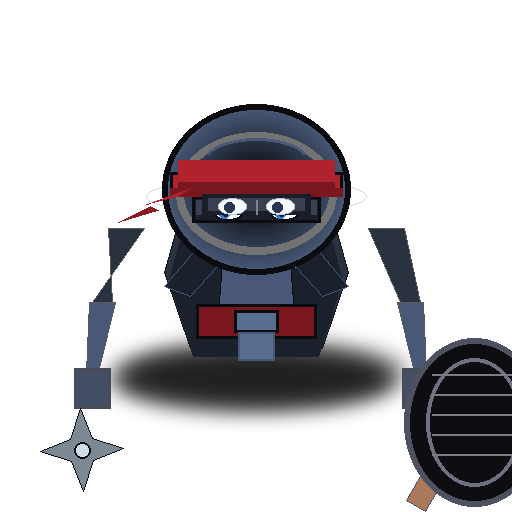
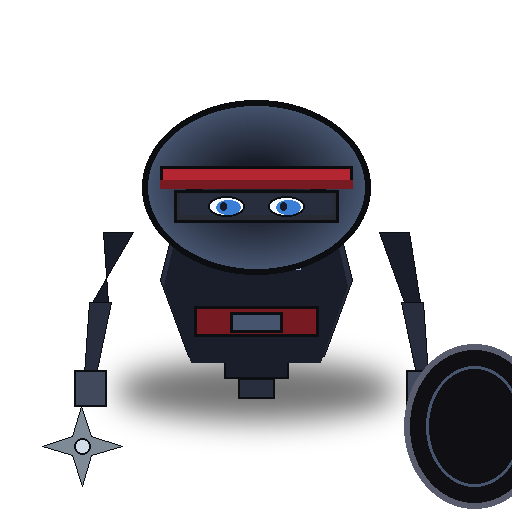
Auto-save #365: Python 코드 작업 - 2025-11-21 23:29:08

Changed region(s): [[0.0625, 0.1875, 1.0, 1.0], [0.7812, 0.875, 0.8125, 0.9062]]

diff --git a/create_stage8_boss.py b/create_stage8_boss.py
@@ -1,0 +1,201 @@
+#!/usr/bin/env python3
+"""Generate a top-down chibi ninja boss (탁닌자): full mask, sharp eyes, slim arms."""
+
+from math import cos, sin, pi
+from typing import Iterable, List, Tuple
+
+from PIL import Image, ImageDraw, ImageFilter
+
+CANVAS = 512
+CENTER = CANVAS // 2
+
+# Palette
+INK = (12, 14, 18, 255)
+SUIT_DARK = (26, 30, 42, 255)
+SUIT_MID = (40, 46, 62, 255)
+SUIT_LIGHT = (70, 84, 110, 255)
+GLOSS = (118, 136, 168, 180)
+MASK_SHADOW = (18, 20, 30, 230)
+BAND = (180, 38, 50, 255)
+BAND_SHADOW = (120, 26, 34, 255)
+EYE_WHITE = (246, 248, 255, 255)
+EYE_IRIS = (58, 126, 214, 255)
+EYE_PUPIL = (22, 28, 42, 255)
+GLOVE = (64, 74, 92, 255)
+PADDLE_FACE = (16, 16, 20, 255)
+PADDLE_EDGE = (88, 92, 108, 255)
+PADDLE_HANDLE = (168, 120, 90, 255)
+SHURIKEN_CORE = (210, 220, 232, 255)
+SHURIKEN_EDGE = (126, 138, 150, 255)
+SHADOW_COLOR = (0, 0, 0, 140)
+
+
+def soft_shadow(canvas: Image.Image, bbox: Tuple[int, int, int, int], blur: int = 12) -> None:
+    shadow = Image.new("RGBA", canvas.size, (0, 0, 0, 0))
+    ImageDraw.Draw(shadow).ellipse(bbox, fill=SHADOW_COLOR)
+    canvas.alpha_composite(shadow.filter(ImageFilter.GaussianBlur(radius=blur)))
+
+
+def ring_ellipse(draw: ImageDraw.ImageDraw, bbox: Tuple[int, int, int, int], inner: Iterable[int], outer: Iterable[int], steps: int = 32) -> None:
+    x1, y1, x2, y2 = bbox
+    for i in range(steps):
+        t = i / (steps - 1)
+        r = int(inner[0] * (1 - t) + outer[0] * t)
+        g = int(inner[1] * (1 - t) + outer[1] * t)
+        b = int(inner[2] * (1 - t) + outer[2] * t)
+        a = int(inner[3] * (1 - t) + outer[3] * t)
+        mx = int((x2 - x1) * 0.35 * t)
+        my = int((y2 - y1) * 0.35 * t)
+        draw.ellipse((x1 + mx, y1 + my, x2 - mx, y2 - my), fill=(r, g, b, a))
+
+
+def star_points(cx: float, cy: float, outer: float, inner: float, spikes: int, rotation_deg: float) -> List[Tuple[float, float]]:
+    rot = rotation_deg * pi / 180
+    pts: List[Tuple[float, float]] = []
+    for i in range(spikes * 2):
+        ang = rot + i * pi / spikes
+        r = outer if i % 2 == 0 else inner
+        pts.append((cx + cos(ang) * r, cy + sin(ang) * r))
+    return pts
+
+
+def draw_head(draw: ImageDraw.ImageDraw) -> None:
+    hood_bbox = (CENTER - 110, 104, CENTER + 110, 268)
+    ring_ellipse(draw, hood_bbox, SUIT_LIGHT + (255,), SUIT_DARK + (255,), steps=40)
+    draw.ellipse((hood_bbox[0] - 4, hood_bbox[1] - 4, hood_bbox[2] + 4, hood_bbox[3] + 6), outline=INK, width=6)
+
+    # Face opening fully masked; only narrow eye slit
+    slit_outer = (CENTER - 82, 190, CENTER + 82, 222)
+    draw.rectangle(slit_outer, fill=MASK_SHADOW, outline=INK, width=3)
+    slit_inner = (CENTER - 76, 194, CENTER + 76, 214)
+    draw.rectangle(slit_inner, fill=SUIT_MID)
+
+    for offset in (-30, 30):
+        eye = (CENTER + offset - 18, 196, CENTER + offset + 18, 216)
+        draw.ellipse(eye, fill=EYE_WHITE, outline=INK, width=2)
+        draw.ellipse((eye[0] + 8, eye[1] + 4, eye[2] - 4, eye[3] - 2), fill=EYE_IRIS)
+        draw.ellipse((eye[0] + 12, eye[1] + 6, eye[0] + 18, eye[1] + 14), fill=EYE_PUPIL)
+
+    # Brow tension
+    draw.arc((CENTER - 74, 182, CENTER + 74, 204), 200, 340, fill=INK, width=5)
+
+    # Head band on back of hood
+    draw.rectangle((CENTER - 96, 166, CENTER + 96, 182), fill=BAND, outline=INK, width=3)
+    draw.rectangle((CENTER - 96, 180, CENTER + 96, 188), fill=BAND_SHADOW)
+
+
+def draw_torso(draw: ImageDraw.ImageDraw) -> None:
+    torso = [
+        (CENTER - 76, 198),
+        (CENTER + 76, 198),
+        (CENTER + 96, 280),
+        (CENTER + 68, 356),
+        (CENTER - 68, 356),
+        (CENTER - 96, 280),
+    ]
+    draw.polygon(torso, fill=SUIT_MID, outline=INK)
+    inner = [(x * 0.95 + CENTER * 0.05, y + 6) for x, y in torso]
+    draw.polygon(inner, fill=SUIT_DARK)
+    # folds
+    for i, xoff in enumerate((-26, 0, 26)):
+        y = 232 + i * 18
+        draw.line([(CENTER - 18 + xoff, y), (CENTER + 18 + xoff, y)], fill=GLOSS, width=2)
+    # belt and buckle
+    draw.rectangle((CENTER - 62, 306, CENTER + 62, 336), fill=BAND_SHADOW, outline=INK, width=3)
+    draw.rectangle((CENTER - 26, 312, CENTER + 26, 332), fill=SUIT_LIGHT, outline=INK, width=3)
+
+
+def draw_arms(draw: ImageDraw.ImageDraw) -> Tuple[Tuple[int, int], Tuple[int, int]]:
+    left_shoulder = (CENTER - 138, 232)
+    right_shoulder = (CENTER + 138, 232)
+    upper_len = 70
+    fore_len = 72
+    shoulder_w = 30
+    fore_w = 22
+
+    def limb(shoulder: Tuple[int, int], side: int) -> Tuple[int, int]:
+        sx, sy = shoulder
+        elbow = (sx + side * 18, sy + upper_len)
+        wrist = (elbow[0] + side * 10, elbow[1] + fore_len)
+        draw.polygon(
+            [
+                (sx - shoulder_w // 2, sy),
+                (sx + shoulder_w // 2, sy),
+                (elbow[0] + side * 8, elbow[1]),
+                (elbow[0] - side * 8, elbow[1]),
+            ],
+            fill=SUIT_DARK,
+            outline=INK,
+        )
+        draw.polygon(
+            [
+                (elbow[0] - side * (fore_w // 2), elbow[1]),
+                (elbow[0] + side * (fore_w // 2), elbow[1]),
+                (wrist[0] + side * 6, wrist[1]),
+                (wrist[0] - side * 6, wrist[1]),
+            ],
+            fill=SUIT_MID,
+            outline=INK,
+        )
+        draw.rectangle((wrist[0] - 16, wrist[1] - 4, wrist[0] + 16, wrist[1] + 32), fill=GLOVE, outline=INK, width=2)
+        return wrist
+
+    left_w = limb(left_shoulder, -1)
+    right_w = limb(right_shoulder, 1)
+    return left_w, right_w
+
+
+def draw_weapons(draw: ImageDraw.ImageDraw, left_hand: Tuple[int, int], right_hand: Tuple[int, int]) -> None:
+    # Shuriken in left
+    cx, cy = left_hand[0] - 8, left_hand[1] + 72
+    pts = star_points(cx, cy, outer=40, inner=14, spikes=4, rotation_deg=0)
+    draw.polygon(pts, fill=SHURIKEN_EDGE, outline=INK)
+    draw.ellipse((cx - 8, cy - 8, cx + 8, cy + 8), fill=SHURIKEN_CORE, outline=INK, width=2)
+
+    # Black paddle in right
+    handle_poly = [
+        (right_hand[0] + 6, right_hand[1] + 16),
+        (right_hand[0] + 20, right_hand[1] + 102),
+        (right_hand[0] + 6, right_hand[1] + 112),
+        (right_hand[0] - 10, right_hand[1] + 28),
+    ]
+    draw.polygon(handle_poly, fill=PADDLE_HANDLE, outline=PADDLE_EDGE)
+    blade_cx, blade_cy = right_hand[0] + 52, right_hand[1] + 52
+    draw.ellipse(
+        (blade_cx - 70, blade_cy - 82, blade_cx + 70, blade_cy + 82),
+        fill=PADDLE_FACE,
+        outline=PADDLE_EDGE,
+        width=6,
+    )
+    draw.ellipse(
+        (blade_cx - 48, blade_cy - 60, blade_cx + 48, blade_cy + 60),
+        outline=SUIT_LIGHT,
+        width=3,
+    )
+
+
+def draw_leg_stub(draw: ImageDraw.ImageDraw) -> None:
+    # Subtle leg hint at bottom to break roundness
+    draw.rectangle((CENTER - 32, 348, CENTER + 32, 378), fill=SUIT_DARK, outline=INK, width=2)
+    draw.rectangle((CENTER - 18, 378, CENTER + 18, 398), fill=SUIT_MID, outline=INK, width=2)
+
+
+def build_sprite() -> Image.Image:
+    base = Image.new("RGBA", (CANVAS, CANVAS), (0, 0, 0, 0))
+    soft_shadow(base, (CENTER - 140, 360, CENTER + 140, 420), blur=14)
+    draw = ImageDraw.Draw(base, "RGBA")
+    draw_leg_stub(draw)
+    draw_torso(draw)
+    left_hand, right_hand = draw_arms(draw)
+    draw_weapons(draw, left_hand, right_hand)
+    draw_head(draw)
+    return base
+
+
+def main() -> None:
+    sprite = build_sprite()
+    sprite.save("boss_stage8.png")
+
+
+if __name__ == "__main__":
+    main()
